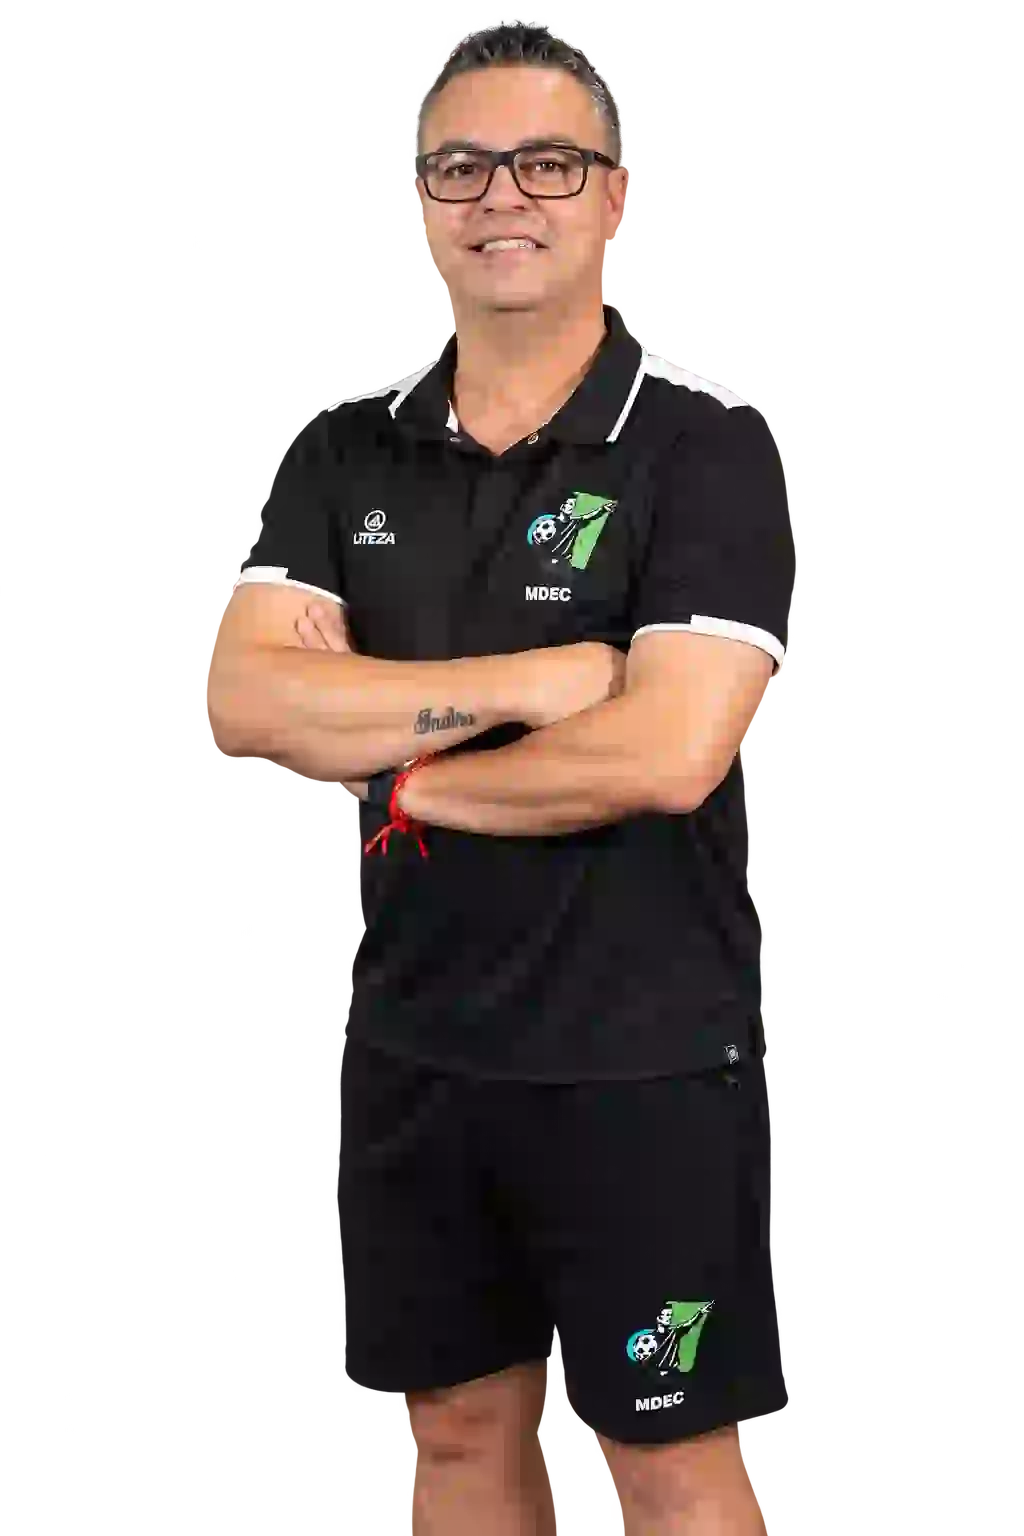
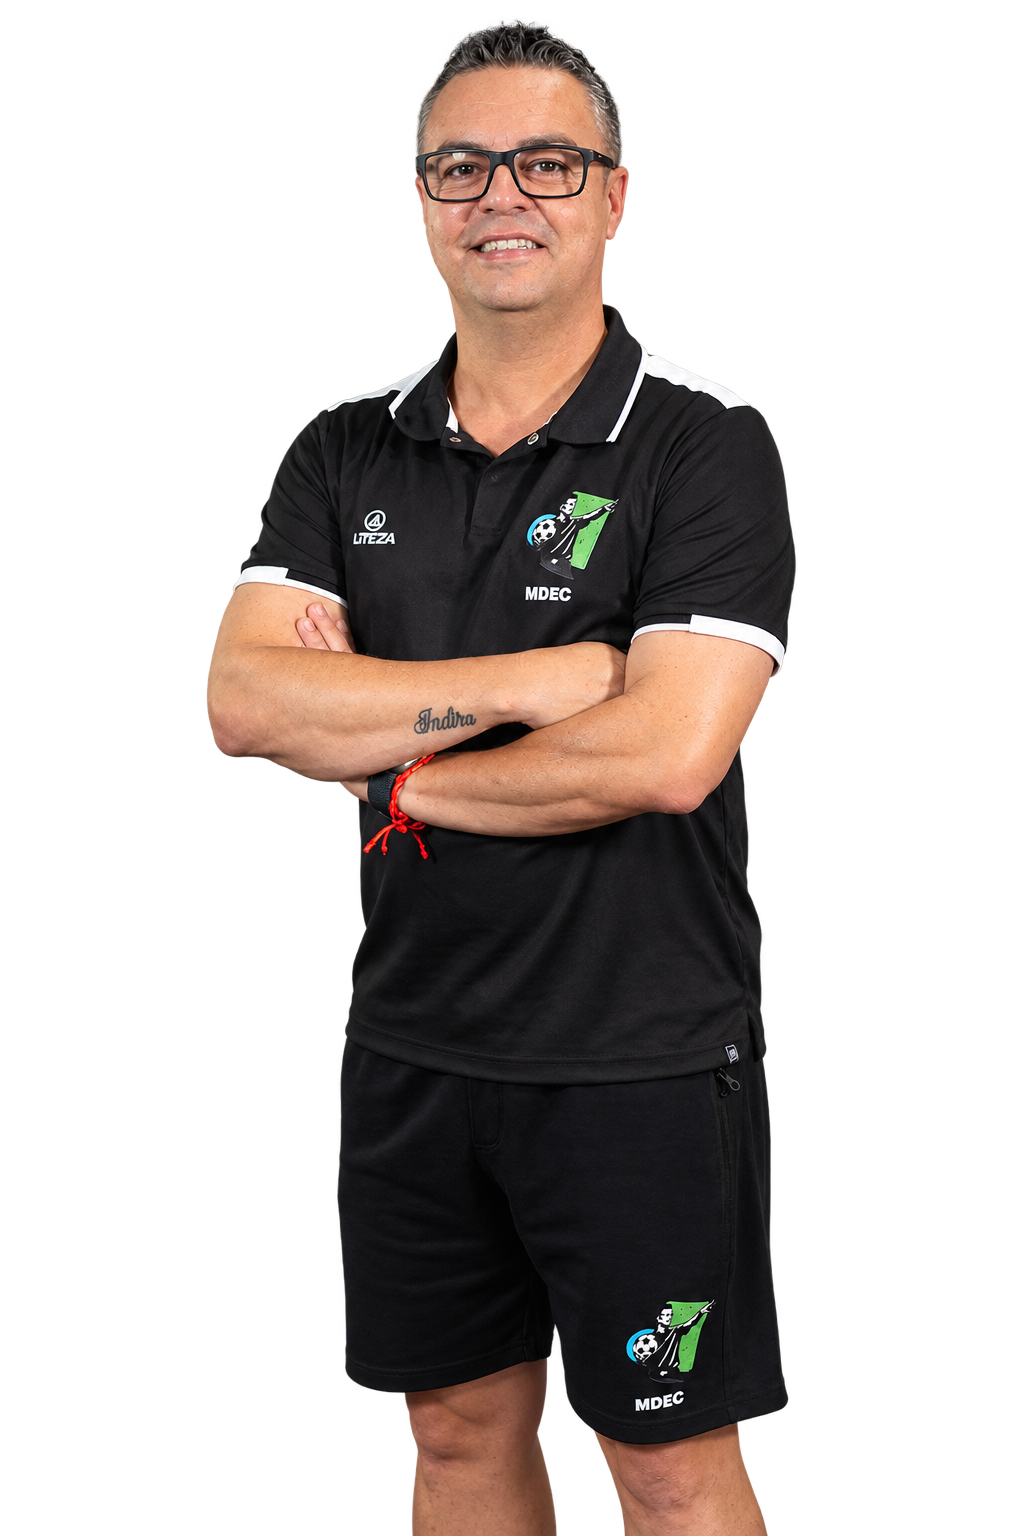
style: remove box-shadow and restore tinodeniz image to full lossless quality

diff --git a/tino.html b/tino.html
@@ -1,4 +1,4 @@
-<!DOCTYPE html>
+<!DOCTYPE html>
 <html lang="es">
 <head>
     <meta charset="UTF-8">
@@ -23,7 +23,6 @@
             position: relative;
             border-radius: 20px;
             overflow: hidden;
-            box-shadow: 0 24px 64px rgba(0,0,0,0.15);
         }
         .tino-hero__img img {
             width: 100%;
